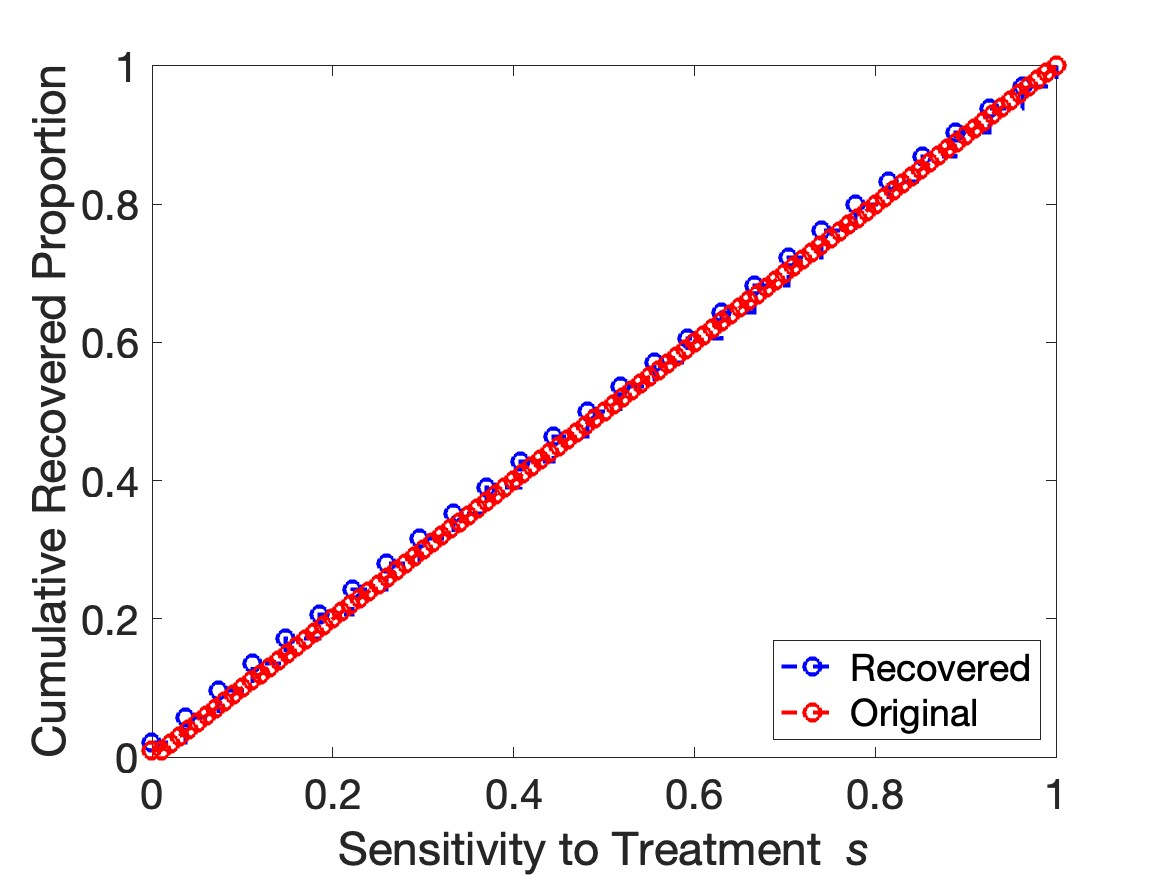
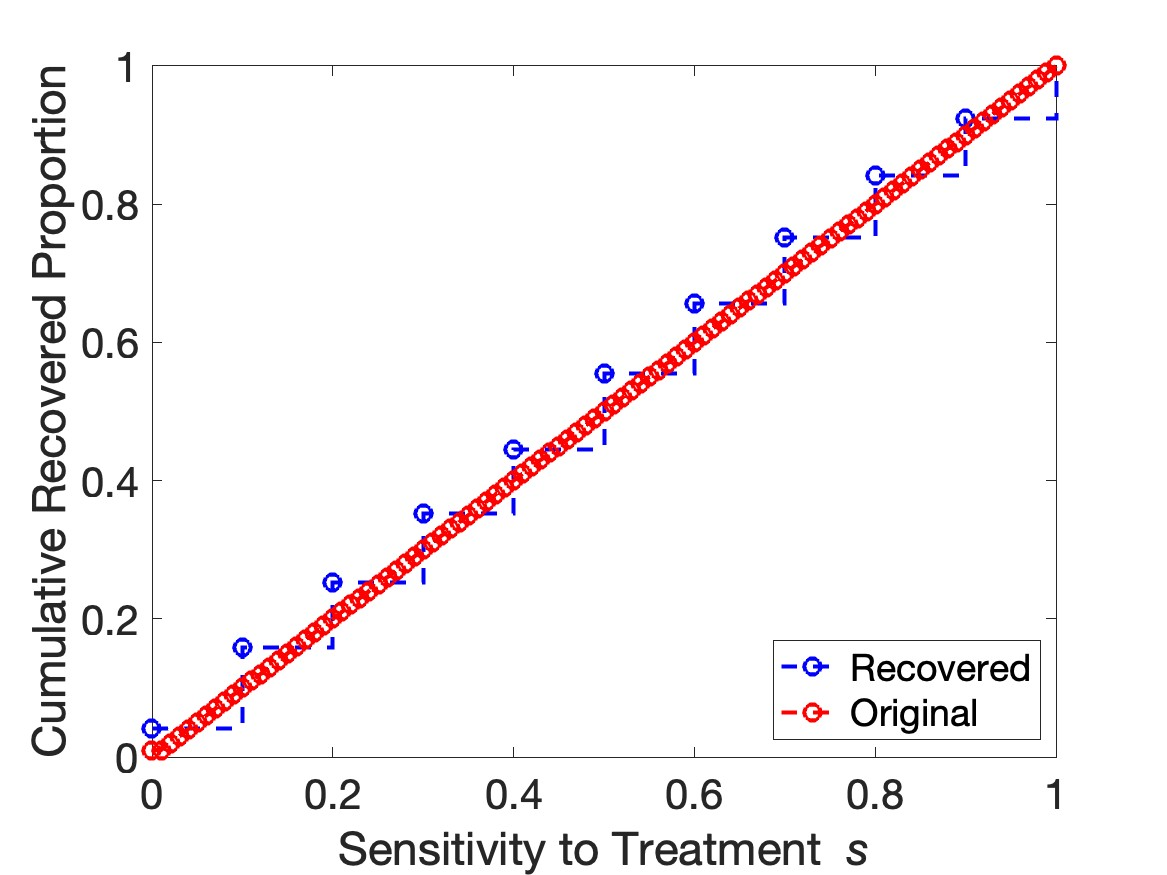
Update CombinePlotsSparseData
Now includes all five dists and correct CDFs, as well as more legible plots

Changed region(s): [[0.1234, 0.4011, 0.5861, 0.864], [0.5861, 0.0926, 0.9254, 0.4011]]

diff --git a/CombinePlotsSparseData.m b/CombinePlotsSparseData.m
@@ -1,3 +1,4 @@
+%Bigaussian results
 Bweightedsol100=[ 0.200000000000000   0.190206784431600   0.181874642589796   0.174804089531730   0.168828383609252   0.163796458113175   0.159573351665091   0.156046322924988   0.153130725260317...
    0.150751894060337   0.148840544913402   0.147333281580422   0.146173855042227   0.145315244868891   0.144718379625683   0.144349166139960   0.144176926181614   0.144174150415773...
    0.144316467554044   0.144582430081904   0.144953252273162   0.145412405749072   0.145945285620468   0.146539008180788   0.147182237184693   0.147865015261577   0.148578619380031...
@@ -39,20 +40,86 @@ Bsprobs10=Bsprobs100;
 BoptweightfromAIC10=[  0.000599981608052   0.000832885125395   0.002588598565198   0.087921164894927   0.276365061140071   0.053567811121672   0.013595707528889   0.054476778602221...
    0.136076321046398   0.145953888278986   0.110428552511181   0.059605031340104   0.027725335866133   0.019180867892904   0.011082014477870]';
 
+%Normal results
+Nsprobs100 = [8.8022e-07  1.6218e-06  2.9514e-06  5.3053e-06  9.4196e-06  1.6519e-05  2.8614e-05  4.8957e-05  8.2734e-05   0.0001381  0.00022769  0.00037079  0.00059642  0.00094757    0.001487   0.0023049   0.0035288   0.0053363   0.0079707     0.01176    0.017136    0.024665    0.035067    0.049243    0.068301    0.093573     0.12662     0.16924     0.22343     0.29135     0.37526     0.47741      0.5999     0.74457      0.9128      1.1053       1.322      1.5617      1.8223      2.1003       2.391      2.6886       2.986      3.2757      3.5494      3.7988      4.0158      4.1931      4.3246      4.4054      4.4327      4.4054      4.3246      4.1931      4.0158      3.7988      3.5494      3.2757       2.986      2.6886       2.391      2.1003      1.8223      1.5617       1.322      1.1053      0.9128     0.74457      0.5999     0.47741     0.37526     0.29135     0.22343     0.16924     0.12662    0.093573    0.068301    0.049243    0.035067    0.024665    0.017136     0.01176   0.0079707   0.0053363   0.0035288   0.0023049    0.001487  0.00094757  0.00059642  0.00037079  0.00022769   0.0001381  8.2734e-05  4.8957e-05  2.8614e-05  1.6519e-05  9.4196e-06  5.3053e-06  2.9514e-06  1.6218e-06  8.8022e-07];
+NoptweightfromAIC100 = [0.00012919  0.00022771  0.00013968  0.00093822   0.0010153    0.018674    0.026553    0.035753     0.18023     0.21443     0.27737     0.13556    0.080335    0.023247   0.0030034           0  0.00035815  0.00018751  0.00022051   0.0016178];
+NoptweightfromAIC25 = [4.0791e-21  3.2914e-37  3.9621e-05  0.00094695   0.0078843      0.1197     0.22757     0.28912     0.22564     0.11814    0.010842  0.00011981           0           0           0];
+NoptweightfromAIC10 = [0           0   0.0011588   0.0004417    0.014742    0.099778     0.23199      0.3009     0.22821     0.11717   0.0042727   0.0005234  0.00011067  0.00030371  0.00039833];
+Nweightedsol100 = [0.2     0.18983     0.18047     0.17183     0.16385     0.15646     0.14961     0.14324     0.13731     0.13179     0.12664     0.12183     0.11733     0.11312     0.10918     0.10547     0.10199    0.098707     0.09562    0.092712     0.08997    0.087381    0.084935    0.082622    0.080433    0.078358    0.076391    0.074524    0.072751    0.071067    0.069466    0.067943    0.066492     0.06511    0.063792    0.062534    0.061333    0.060186    0.059089    0.058039    0.057035    0.056074    0.055153     0.05427    0.053422    0.052609    0.051828    0.051078    0.050357    0.049663    0.048996    0.048353    0.047735    0.047139    0.046564     0.04601    0.045475    0.044959     0.04446    0.043979    0.043514    0.043064    0.042629    0.042208    0.041801    0.041406    0.041024    0.040654    0.040295    0.039947    0.039609    0.039282    0.038964    0.038656    0.038356    0.038065    0.037782    0.037507     0.03724     0.03698    0.036727    0.036481    0.036241    0.036008    0.035781     0.03556    0.035344    0.035134    0.034929    0.034729    0.034534    0.034344    0.034159    0.033978    0.033801    0.033629     0.03346    0.033296    0.033135    0.032978];
+Nweightedsol25 = [0.2     0.16289     0.13589     0.11574     0.10032    0.088341    0.078868    0.071276    0.065112    0.060047    0.055841    0.052313    0.049327    0.046778    0.044584    0.042683    0.041024    0.039568    0.038283    0.037142    0.036124    0.035212    0.034391     0.03365    0.032978];
+Nweightedsol10 = [0.2     0.12185    0.084941    0.065112    0.053423     0.04601    0.041024    0.037507    0.034929    0.032978];
+NSweightedsol100 = [0.2     0.18983     0.18047     0.17184     0.16385     0.15646     0.14961     0.14324     0.13731     0.13179     0.12663     0.12183     0.11733     0.11312     0.10917     0.10547     0.10198    0.098705    0.095618     0.09271    0.089968     0.08738    0.084934    0.082622    0.080432    0.078358    0.076391    0.074525    0.072752    0.071068    0.069467    0.067944    0.066493    0.065111    0.063792    0.062535    0.061334    0.060186    0.059089     0.05804    0.057036    0.056074    0.055153     0.05427    0.053423    0.052609    0.051829    0.051078    0.050357    0.049663    0.048996    0.048353    0.047735    0.047139    0.046564     0.04601    0.045475    0.044959     0.04446    0.043979    0.043514    0.043064    0.042629    0.042208      0.0418    0.041406    0.041024    0.040653    0.040295    0.039947    0.039609    0.039282    0.038964    0.038655    0.038356    0.038065    0.037782    0.037507     0.03724     0.03698    0.036727     0.03648    0.036241    0.036008    0.035781    0.035559    0.035344    0.035134    0.034929    0.034729    0.034534    0.034344    0.034159    0.033978    0.033801    0.033629    0.033461    0.033296    0.033135    0.032978];
+NSweightedsol25 = [0.2     0.16288     0.13589     0.11574     0.10033    0.088342     0.07887    0.071275    0.065112    0.060046    0.055841    0.052312    0.049327    0.046777    0.044584    0.042683    0.041025    0.039569    0.038283    0.037142    0.036124    0.035212    0.034391     0.03365    0.032977];
+NSweightedsol10 = [0.2     0.12185    0.084941    0.065113    0.053422    0.046009    0.041024    0.037508    0.034929    0.032977];
+
+%Uniform results
+Usprobs100 = [1  1  1  1  1  1  1  1  1  1  1  1  1  1  1  1  1  1  1  1  1  1  1  1  1  1  1  1  1  1  1  1  1  1  1  1  1  1  1  1  1  1  1  1  1  1  1  1  1  1  1  1  1  1  1  1  1  1  1  1  1  1  1  1  1  1  1  1  1  1  1  1  1  1  1  1  1  1  1  1  1  1  1  1  1  1  1  1  1  1  1  1  1  1  1  1  1  1  1  1  1];
+UoptweightfromAIC100 = [0.021667    0.035894    0.039097    0.038483    0.036101    0.034983    0.035998    0.037431    0.037188    0.036222      0.0368    0.037477    0.036811    0.036051    0.035734    0.035358    0.034413    0.037012    0.039266    0.040218    0.040153    0.037319    0.033789    0.034971    0.035578    0.034636    0.032369    0.028979];
+UoptweightfromAIC25 = [0.026019    0.037767    0.043849    0.043582    0.041086     0.04027    0.041914    0.042156    0.037024    0.038394    0.040462    0.042284    0.043316    0.043254    0.040466    0.041909      0.0428    0.043201    0.043086    0.042447    0.041274    0.039557    0.037353    0.034739    0.031792];
+UoptweightfromAIC10 = [0.041815     0.11596      0.0943     0.10099    0.092497     0.11006     0.10138    0.094694    0.089343    0.082805    0.076155];
+Uweightedsol100 = [0.2     0.19063     0.18346     0.17818     0.17451      0.1722     0.17103     0.17083     0.17145     0.17274     0.17457     0.17684     0.17944     0.18228     0.18529      0.1884     0.19154     0.19468     0.19776     0.20076     0.20366     0.20644     0.20908     0.21157     0.21391      0.2161     0.21814     0.22005     0.22182     0.22346     0.22497     0.22636     0.22763      0.2288     0.22986     0.23083     0.23173     0.23255     0.23331       0.234     0.23462     0.23519      0.2357     0.23617     0.23659     0.23698     0.23733     0.23765     0.23795     0.23821     0.23845     0.23866     0.23885     0.23903     0.23918     0.23932     0.23945     0.23956     0.23966     0.23975     0.23983      0.2399     0.23996     0.24001     0.24005     0.24009     0.24012     0.24015     0.24017     0.24019      0.2402     0.24021     0.24021     0.24021     0.24021     0.24021      0.2402     0.24019     0.24018     0.24017     0.24016     0.24014     0.24012     0.24011     0.24009     0.24006     0.24004     0.24002        0.24     0.23997     0.23995     0.23993      0.2399     0.23987     0.23985     0.23982      0.2398     0.23977     0.23974     0.23971];
+Uweightedsol25 = [0.2     0.17414     0.17171      0.1805     0.19312     0.20541     0.21559     0.22326     0.22879     0.23266     0.23531     0.23713     0.23833     0.23913     0.23964     0.23995     0.24012      0.2402     0.24021     0.24018     0.24011     0.24003     0.23993     0.23983     0.23971];
+Uweightedsol10 = [0.2     0.17685     0.20908     0.22879      0.2366     0.23932     0.24012     0.24019        0.24     0.23971];
+USweightedsol100 = [0.2     0.19063     0.18346     0.17818      0.1745     0.17219     0.17103     0.17083     0.17145     0.17274     0.17458     0.17684     0.17944     0.18228     0.18529      0.1884     0.19154     0.19468     0.19776     0.20076     0.20366     0.20644     0.20908     0.21157     0.21391      0.2161     0.21814     0.22005     0.22182     0.22346     0.22497     0.22636     0.22763      0.2288     0.22986     0.23084     0.23173     0.23256     0.23331       0.234     0.23462     0.23519      0.2357     0.23617     0.23659     0.23698     0.23733     0.23765     0.23795     0.23821     0.23845     0.23866     0.23885     0.23903     0.23918     0.23932     0.23945     0.23956     0.23966     0.23975     0.23983      0.2399     0.23996     0.24001     0.24005     0.24009     0.24012     0.24015     0.24017     0.24019      0.2402     0.24021     0.24021     0.24021     0.24021     0.24021      0.2402     0.24019     0.24018     0.24017     0.24016     0.24014     0.24012     0.24011     0.24009     0.24007     0.24004     0.24002        0.24     0.23997     0.23995     0.23993      0.2399     0.23987     0.23985     0.23982     0.23979     0.23977     0.23974     0.23971];
+USweightedsol25 = [0.2     0.17414     0.17171      0.1805     0.19312     0.20541     0.21559     0.22326     0.22879     0.23266     0.23532     0.23713     0.23833     0.23913     0.23964     0.23995     0.24012      0.2402     0.24021     0.24018     0.24011     0.24003     0.23993     0.23983     0.23972];
+USweightedsol10 = [0.2     0.17685     0.20908     0.22878     0.23661     0.23932     0.24012     0.24019        0.24     0.23971];
+
+%OnePoint results
+Osprobs100 = [0  0  0  0  0  0  0  0  0  0  0  0  0  0  0  0  0  0  0  0  0  0  0  0  0  0  0  0  0  0  0  0  0  0  0  0  0  0  0  1  0  0  0  0  0  0  0  0  0  0  0  0  0  0  0  0  0  0  0  0  0  0  0  0  0  0  0  0  0  0  0  0  0  0  0  0  0  0  0  0  0  0  0  0  0  0  0  0  0  0  0  0  0  0  0  0  0  0  0  0  0];
+OoptweightfromAIC100 = [0.00051212  1.0105e-22           0           0  9.7572e-23           0           0  7.3489e-22    0.019392      0.9801           0  2.0495e-22           0  2.7007e-22  3.1233e-22  3.5459e-22           0  1.6269e-22  2.0495e-22           0           0  2.0495e-22           0           0];
+OoptweightfromAIC25 = [0.00051246           0  1.4039e-21  3.4465e-21  6.1398e-21           0           0  2.5817e-21    0.019388      0.9801           0  1.3078e-21  3.3751e-21  1.1957e-20           0           0  1.9805e-21           0  1.4039e-21  1.6644e-20           0  3.9517e-21  1.2117e-21           0];
+OoptweightfromAIC10 = [0.00051442           0  1.0579e-37           0   4.702e-38           0           0   4.702e-38    0.019368     0.98012           0  1.1755e-38  1.7492e-37           0           0  1.0439e-37           0  1.4106e-37  1.1755e-38           0  1.0348e-38   4.555e-38  1.0348e-38  2.8212e-37];
+Oweightedsol100 = [0.2     0.19711     0.19431      0.1916     0.18897     0.18643     0.18396     0.18157     0.17924     0.17698     0.17479     0.17266     0.17059     0.16857     0.16661      0.1647     0.16284     0.16103     0.15927     0.15755     0.15587     0.15424     0.15265     0.15109     0.14957     0.14809     0.14664     0.14522     0.14384     0.14249     0.14117     0.13987     0.13861     0.13737     0.13616     0.13498     0.13381     0.13268     0.13157     0.13048     0.12941     0.12836     0.12733     0.12633     0.12534     0.12437     0.12342     0.12249     0.12158     0.12068      0.1198     0.11893     0.11809     0.11725     0.11643     0.11563     0.11484     0.11406      0.1133     0.11255     0.11181     0.11108     0.11037     0.10967     0.10898      0.1083     0.10763     0.10697     0.10632     0.10569     0.10506     0.10444     0.10383     0.10324     0.10265     0.10207     0.10149     0.10093     0.10037    0.099828    0.099289    0.098758    0.098234    0.097718    0.097209    0.096708    0.096213    0.095726    0.095245     0.09477    0.094302    0.093841    0.093385    0.092936    0.092493    0.092055    0.091624    0.091198    0.090777    0.090362];
+Oweightedsol25 = [0.2     0.18865     0.17867     0.16983     0.16193     0.15485     0.14845     0.14265     0.13737     0.13254      0.1281     0.12401     0.12024     0.11674     0.11349     0.11046     0.10763     0.10498      0.1025     0.10017    0.097975    0.095908    0.093955     0.09211    0.090362];
+Oweightedsol10 = [0.2     0.17266     0.15265     0.13737     0.12534     0.11563     0.10763     0.10093    0.095245    0.090362];
+OSweightedsol100 = [0.2     0.19709     0.19428     0.19156     0.18893     0.18638     0.18391     0.18151     0.17919     0.17693     0.17474     0.17262     0.17055     0.16854     0.16659     0.16468     0.16283     0.16102     0.15926     0.15755     0.15588     0.15425     0.15265      0.1511     0.14958      0.1481     0.14665     0.14523     0.14385      0.1425     0.14118     0.13988     0.13862     0.13738     0.13617     0.13498     0.13382     0.13269     0.13157     0.13048     0.12941     0.12836     0.12734     0.12633     0.12534     0.12437     0.12342     0.12249     0.12158     0.12068      0.1198     0.11893     0.11808     0.11725     0.11643     0.11562     0.11483     0.11406     0.11329     0.11254      0.1118     0.11108     0.11036     0.10966     0.10897     0.10829     0.10763     0.10697     0.10632     0.10568     0.10506     0.10444     0.10383     0.10323     0.10264     0.10206     0.10149     0.10093     0.10037    0.099828    0.099289    0.098758    0.098235    0.097719     0.09721    0.096709    0.096214    0.095727    0.095246    0.094772    0.094304    0.093842    0.093387    0.092938    0.092495    0.092058    0.091626      0.0912     0.09078    0.090364];
+OSweightedsol25 = [0.2      0.1886     0.17862     0.16979     0.16192     0.15485     0.14847     0.14267     0.13738     0.13255      0.1281     0.12402     0.12024     0.11674     0.11348     0.11045     0.10763     0.10498      0.1025     0.10017    0.097976    0.095909    0.093957    0.092112    0.090364];
+OSweightedsol10 = [0.2     0.17262     0.15265     0.13738     0.12534     0.11562     0.10763     0.10093    0.095245    0.090364];
+
+%TwoPoints results
+Tsprobs100 = [0           0           0           0           0           0           0           0           0           0           0           0           0           0           0           0           0           0           0           0           0           0           0           0           0           0           0           0           0         0.4           0           0           0           0           0           0           0           0           0           0           0           0           0           0           0           0           0           0           0           0           0           0           0           0           0           0           0           0           0           0           0           0           0           0           0           0           0           0           0           0           0           0           0           0           0           0           0           0           0         0.6           0           0           0           0           0           0           0           0           0           0           0           0           0           0           0           0           0           0           0           0           0];
+ToptweightfromAIC100 = [0  2.8647e-21  4.3024e-22           0     0.38649  3.1171e-22           0           0  4.5368e-22    0.075422    0.032741     0.34511     0.16024  2.2513e-21           0];
+ToptweightfromAIC25 = [0.00016242           0     0.38612           0           0     0.31365     0.30007           0];
+ToptweightfromAIC10 = [2.8549e-37  3.1678e-22     0.38655  5.7038e-23  9.2486e-23     0.32766      0.2574    0.028391];
+Tweightedsol100 = [0.2     0.18452     0.17153     0.16066      0.1516     0.14408     0.13784     0.13267     0.12845     0.12503      0.1223     0.12015     0.11849     0.11725     0.11637      0.1158     0.11549      0.1154     0.11549     0.11574     0.11612     0.11661     0.11719     0.11784     0.11855     0.11931     0.12011     0.12094     0.12179     0.12265     0.12352      0.1244     0.12527     0.12614     0.12701     0.12787     0.12871     0.12955     0.13036     0.13117     0.13195     0.13272     0.13348     0.13421     0.13492     0.13562      0.1363     0.13696      0.1376     0.13822     0.13882      0.1394     0.13997     0.14052     0.14105     0.14156     0.14206     0.14254       0.143     0.14345     0.14388      0.1443     0.14471      0.1451     0.14547     0.14583     0.14618     0.14652     0.14685     0.14716     0.14746     0.14775     0.14803      0.1483     0.14856     0.14881     0.14905     0.14928      0.1495     0.14972     0.14992     0.15012     0.15031     0.15049     0.15067     0.15084       0.151     0.15116     0.15131     0.15145     0.15159     0.15172     0.15185     0.15198     0.15209     0.15221     0.15232     0.15242     0.15252     0.15262];
+Tweightedsol25 = [0.2     0.15057     0.12753     0.11798     0.11542     0.11641     0.11912     0.12254     0.12614     0.12965     0.13291     0.13588     0.13852     0.14085     0.14289     0.14466     0.14618      0.1475     0.14862     0.14958      0.1504      0.1511     0.15169     0.15219     0.15262];
+Tweightedsol10 = [0.2     0.12015     0.11719     0.12614     0.13492     0.14156     0.14618     0.14928     0.15131     0.15262];
+TSweightedsol100 = [0.2     0.18448     0.17148     0.16061     0.15156     0.14404     0.13781     0.13267     0.12846     0.12505     0.12233     0.12018     0.11852     0.11728      0.1164     0.11583     0.11551     0.11541      0.1155     0.11574     0.11611     0.11659     0.11717     0.11781     0.11852     0.11928     0.12008      0.1209     0.12175     0.12261     0.12348     0.12436     0.12524     0.12612     0.12699     0.12785      0.1287     0.12954     0.13036     0.13117     0.13196     0.13274      0.1335     0.13423     0.13495     0.13566     0.13634       0.137     0.13764     0.13827     0.13888     0.13946     0.14003     0.14058     0.14111     0.14163     0.14213     0.14261     0.14307     0.14352     0.14395     0.14437     0.14477     0.14516     0.14553     0.14589     0.14624     0.14657     0.14689      0.1472      0.1475     0.14778     0.14806     0.14832     0.14858     0.14882     0.14906     0.14928      0.1495     0.14971     0.14991      0.1501     0.15028     0.15046     0.15063      0.1508     0.15095      0.1511     0.15125     0.15139     0.15152     0.15165     0.15177     0.15189       0.152     0.15211     0.15221     0.15231     0.15241      0.1525];
+TSweightedsol25 = [0.2     0.15047     0.12754     0.11804     0.11546     0.11642     0.11908     0.12249     0.12609     0.12962     0.13291      0.1359     0.13857     0.14091     0.14296     0.14472     0.14624     0.14754     0.14865     0.14959     0.15039     0.15106     0.15163     0.15211     0.15251];
+TSweightedsol10 = [0.2     0.12015      0.1172      0.1261     0.13494     0.14163     0.14625      0.1493     0.15127     0.15252];
 
 
+timestepplots(Bsprobs100,BoptweightfromAIC100,BoptweightfromAIC25,BoptweightfromAIC10,Bweightedsol100,Bweightedsol25,Bweightedsol10,BSweightedsol100,BSweightedsol25,BSweightedsol10,'Bigaussian')
 
-timestepplots(Bsprobs100,BoptweightfromAIC100,BoptweightfromAIC25,BoptweightfromAIC10,Bweightedsol100,Bweightedsol25,Bweightedsol10,BSweightedsol100,BSweightedsol25,BSweightedsol10)
+timestepplots(Nsprobs100,NoptweightfromAIC100,NoptweightfromAIC25,NoptweightfromAIC10,Nweightedsol100,Nweightedsol25,Nweightedsol10,NSweightedsol100,NSweightedsol25,NSweightedsol10,'Normal')
 
-function []=timestepplots(sprobs100,optweightfromAIC100,optweightfromAIC25,optweightfromAIC10,weightedsol100,weightedsol25,weightedsol10,Sweightedsol100,Sweightedsol25,Sweightedsol10)
+timestepplots(Usprobs100,UoptweightfromAIC100,UoptweightfromAIC25,UoptweightfromAIC10,Uweightedsol100,Uweightedsol25,Uweightedsol10,USweightedsol100,USweightedsol25,USweightedsol10,'Uniform')
+ 
+timestepplots(Osprobs100,OoptweightfromAIC100,OoptweightfromAIC25,OoptweightfromAIC10,Oweightedsol100,Oweightedsol25,Oweightedsol10,OSweightedsol100,OSweightedsol25,OSweightedsol10,'OnePoint')
+ 
+timestepplots(Tsprobs100,ToptweightfromAIC100,ToptweightfromAIC25,ToptweightfromAIC10,Tweightedsol100,Tweightedsol25,Tweightedsol10,TSweightedsol100,TSweightedsol25,TSweightedsol10,'TwoPoints')
+
+function []=timestepplots(sprobs100,optweightfromAIC100,optweightfromAIC25,optweightfromAIC10,weightedsol100,weightedsol25,weightedsol10,Sweightedsol100,Sweightedsol25,Sweightedsol10,disttype)
 points = 101;
 sgrid=linspace(0,1,101);
-cdfS100(1)=(1/101)*sprobs100(1);
-    for i=2:points
-        partialsumS=trapz(sgrid(1:i),sprobs100(1:i));
-        cdfS100(i)=partialsumS;
-    end
+% if disttype == 'Normal' 
+    % cdfS100(1)=(1/101)*sprobs100(1);
+    %     for i=2:points
+    %         partialsumS=trapz(sgrid(1:i),sprobs100(1:i));
+    %         cdfS100(i)=partialsumS;
+    %     end
+if strcmp(disttype,'OnePoint') == 1 || strcmp(disttype,'TwoPoints') ==1 
+    cdfS100 = cumsum(sprobs100);
+elseif strcmp(disttype,'Normal') == 1 || strcmp(disttype,'Uniform') ==1 || strcmp(disttype,'Bigaussian') ==1 
+    cdfS100=cumtrapz(linspace(0,1,length(sprobs100)),sprobs100);
+end
 
+% end
+% if disttype == 'Normal'
+%     cdfS100=cumtrapz(linspace(0,1,length(sprobs100)),sprobs100)
+% elseif disttype == 'OnePoint' || disttype == 'TwoPoints'
+%     cdfS100 = cumsum(linspace(0,1,length(sprobs100)),sprobs100)
+% end
 % figure
 % plot(linspace(0,1,points),cdfS100,'r')
 % hold on
@@ -62,11 +129,11 @@ cdfS100(1)=(1/101)*sprobs100(1);
 % ylim([0 1])
 
 figure
-stairs(linspace(0,1,length(optweightfromAIC100)),cumsum(optweightfromAIC100),'-','MarkerSize',8,'LineWidth',2,'Color','m')
+stairs(linspace(0,1,length(optweightfromAIC100)),cumsum(optweightfromAIC100),'-','MarkerSize',8,'LineWidth',2,'Color','blue')
 hold on
 stairs(linspace(0,1,length(optweightfromAIC25)),cumsum(optweightfromAIC25),'-','MarkerSize',8,'LineWidth',2,'Color','cyan')
 hold on
-stairs(linspace(0,1,length(optweightfromAIC10)),cumsum(optweightfromAIC10),'-','MarkerSize',8,'LineWidth',2,'Color','blue')
+stairs(linspace(0,1,length(optweightfromAIC10)),cumsum(optweightfromAIC10),'-','MarkerSize',8,'LineWidth',2,'Color','m')
     ylim([0 1])
     hold on
     plot(linspace(0,1,points),cdfS100,'-','MarkerSize',6,'LineWidth',2,'Color','red')
@@ -74,22 +141,22 @@ stairs(linspace(0,1,length(optweightfromAIC10)),cumsum(optweightfromAIC10),'-','
 %ylabel('Cumulative Recovered Prop. of Pop.') %original version
 ylabel('Cumulative Recovered Proportion')
 %legend(Legend, 'FontSize',12,'Location','northwest')
-legend('Recovered, 100 Time Steps','Recovered, 25 Time Steps','Recovered, 10 Time Steps','Original','Location','Southeast')
+legend('Recovered, 100 Time Steps','Recovered, 25 Time Steps','Recovered, 10 Time Steps','Original','Location','Southeast','FontSize',14)
 set(gca,"FontSize",20)
 
 figure
-plot(linspace(0,50,100),weightedsol100,'md','LineWidth', 2,'MarkerSize',6)
+plot(linspace(0,50,100),weightedsol100,'d','LineWidth', 2,'MarkerSize',8,'Color','blue')
 hold on
-plot(linspace(0,50,100),Sweightedsol100,'LineWidth',2,'Color','m')
+plot(linspace(0,50,100),Sweightedsol100,'LineWidth',2,'Color','blue')
 hold on
-plot(linspace(0,50,25),weightedsol25,'gd','LineWidth', 2,'MarkerSize',6)
+plot(linspace(0,50,25),weightedsol25,'d','LineWidth', 2,'MarkerSize',8,'Color','cyan')
 hold on
-plot(linspace(0,50,25),Sweightedsol25,'LineWidth',2,'Color','g')
+plot(linspace(0,50,25),Sweightedsol25,'LineWidth',2,'Color','cyan')
 hold on
-plot(linspace(0,50,10),weightedsol10,'bd','LineWidth', 2,'MarkerSize',6)
+plot(linspace(0,50,10),weightedsol10,'md','LineWidth', 2,'MarkerSize',8)
 hold on
-plot(linspace(0,50,10),Sweightedsol10,'LineWidth',2,'Color','blue')
-legend('Synthetic Data, 100 Time Steps','Recovered Curve, 100 Time Steps','Synthetic Data, 25 Time Steps','Recovered Curve, 25 Time Steps','Synthetic Data, 10 Time Steps','Recovered Curve, 10 Time Steps')
+plot(linspace(0,50,10),Sweightedsol10,'LineWidth',2,'Color','m')
+legend('Synthetic Data, 100 Time Steps','Recovered Curve, 100 Time Steps','Synthetic Data, 25 Time Steps','Recovered Curve, 25 Time Steps','Synthetic Data, 10 Time Steps','Recovered Curve, 10 Time Steps','FontSize',14)
 set(gca,"FontSize",20)
 ylabel('Aggregated Tumor Volume')
 xlabel('Time')
@@ -99,14 +166,17 @@ r100to10=length(optweightfromAIC10)/length(optweightfromAIC100);
 
 figure
 yyaxis left
-plot(linspace(0,1,length(optweightfromAIC100)),optweightfromAIC100,'LineWidth',2)
+plot(linspace(0,1,length(optweightfromAIC100)),optweightfromAIC100,'-','LineWidth',2,'Color','blue')
 hold on
-plot(linspace(0,1,length(optweightfromAIC25)),optweightfromAIC25*(r100to25),'LineWidth',2)
+plot(linspace(0,1,length(optweightfromAIC25)),optweightfromAIC25*(r100to25),'-','LineWidth',2,'Color','cyan')
 hold on
-plot(linspace(0,1,length(optweightfromAIC10)),optweightfromAIC10*(r100to10),'LineWidth',2)
+plot(linspace(0,1,length(optweightfromAIC10)),optweightfromAIC10*(r100to10),'-','LineWidth',2,'Color','m')
 hold on
+ylabel('Recovered Proportion of Population')
 yyaxis right
-plot(linspace(0,1,101),sprobs100,'LineWidth',2)
-legend('100','25','10','Original')
-
+plot(linspace(0,1,101),sprobs100,'LineWidth',2,'Color','r')
+ylabel('Original Proportion of Population')
+legend('Recovered, 100 Time Steps','Recovered, 25 Time Steps','Recovered, 10 Time Steps','Original','FontSize',14)
+set(gca,"FontSize",20)
+xlabel('Sensitivity to Treatment {\it s}')
 end

diff --git a/GLSInverseScriptNPaper.m b/GLSInverseScriptNPaper.m
@@ -2,12 +2,12 @@
 clc
 clear all
 points=101; %this used to be 50
-disttype = ['Bigaussian'];
+disttype = ['TwoPoints'];
 % rho=1; %make these inputs 
 % k=1.5; %maximal death rate due to treatment %bigger than rho
 % y0=.2; %note c is normalized so needs to start between 0 and 1
 tfinal=50;
-tpoints=100; %typically 100 for paper
+tpoints=10; %typically 100 for paper
 noisesize=0.0; %keep it w 0 noise for now
 tspan=linspace(0,tfinal,tpoints);
 rpoints = 12; 

diff --git a/ForwardFnFindK.m b/ForwardFnFindK.m
@@ -1,5 +1,5 @@
 function[t,c]=ForwardFnFindK(k,tspan,IC)
 rhoval=0.0682;
-%[t,c]=ode45(@(t,c) -k*c,tspan,IC );
-%[t,c]=ode45(@(t,c) -k*c*rhoval,tspan,IC );
-[t,c]=ode45(@(t,c) -k*c*(1-c),tspan,IC );
+%[t,c]=ode45(@(t,c) -k*c,tspan,IC ); %regular death term
+%[t,c]=ode45(@(t,c) -k*c*rhoval,tspan,IC ); %death term with max rho value
+[t,c]=ode45(@(t,c) -k*c*(1-c),tspan,IC ); %logistic death term 
